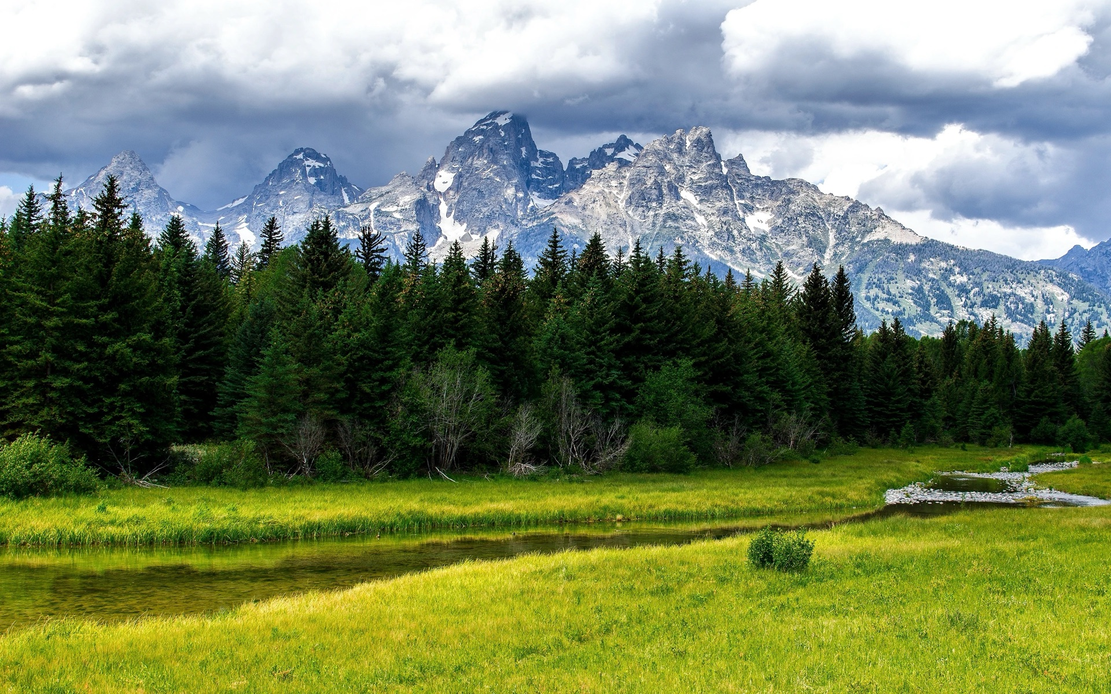
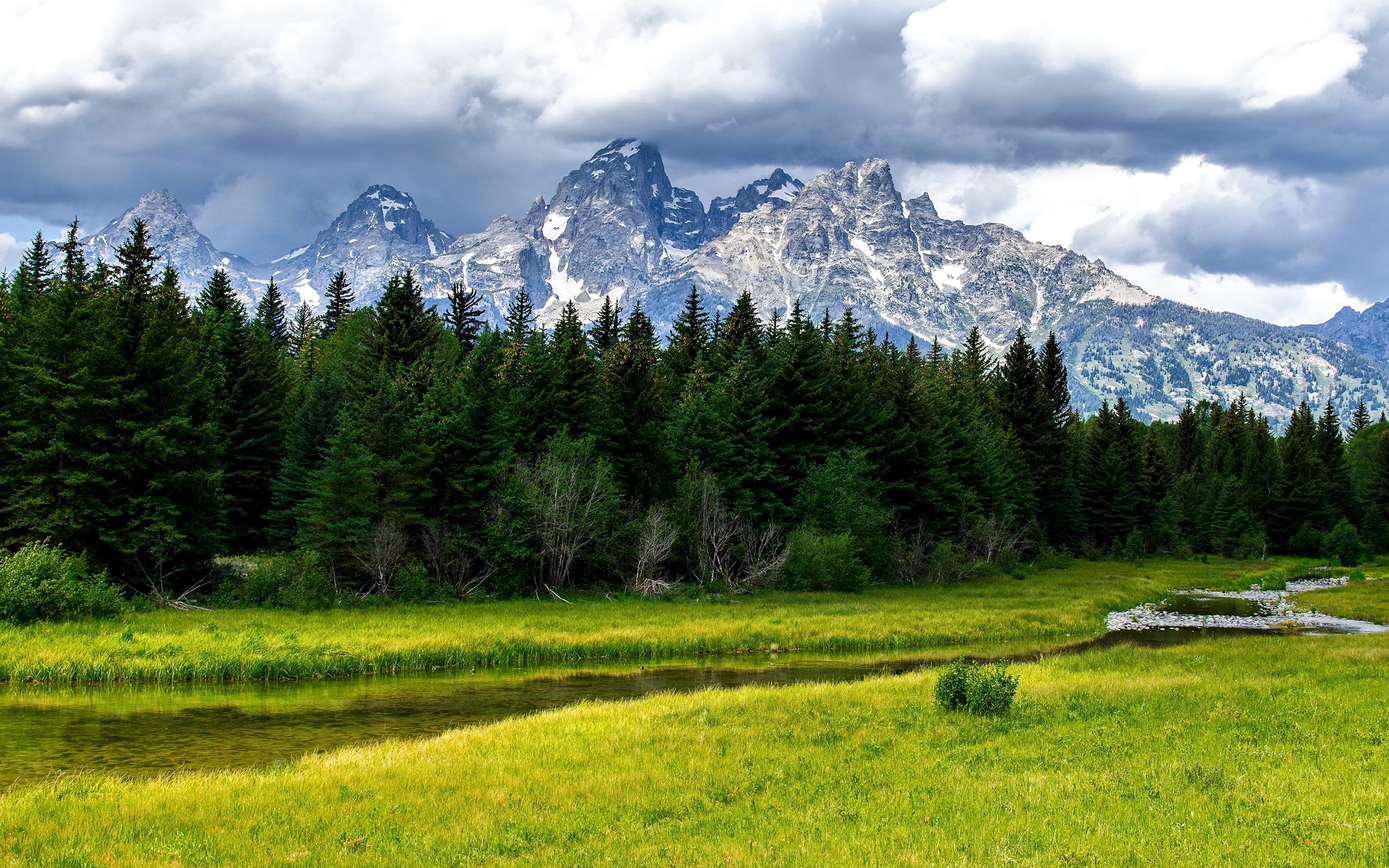
背景减淡遮罩提升清晰度，卡片改为实心

diff --git a/index.html b/index.html
@@ -9,7 +9,7 @@
 /* ===== tokens ===== */
 :root{
   --bg:#f4f2ec;
-  --card:rgba(253,252,249,0.86);
+  --card:rgba(253,252,249,0.96);
   --card-solid:#faf8f4;
   --border:rgba(45,42,36,0.1);
   --border-strong:rgba(45,42,36,0.22);
@@ -43,7 +43,7 @@ body{
 .bg-veil{
   position:fixed;inset:0;z-index:-1;
   background:
-    linear-gradient(to bottom, rgba(248,247,242,0.55) 0%, rgba(248,247,242,0.68) 45%, rgba(248,247,242,0.8) 100%);
+    linear-gradient(to bottom, rgba(248,247,242,0.05) 0%, rgba(248,247,242,0.12) 55%, rgba(248,247,242,0.3) 100%);
 }
 ::selection{background:var(--accent-soft);color:var(--text-strong);}
 a{color:var(--accent);text-decoration:none;transition:color .2s;}
@@ -119,6 +119,7 @@ img{max-width:100%;}
   font-size:1.5rem;font-weight:600;
   letter-spacing:0.5em;text-indent:0.5em;
   color:var(--text-strong);
+  text-shadow:0 1px 3px rgba(250,249,245,0.9),0 0 14px rgba(250,249,245,0.8);
   display:inline-block;
 }
 .section-label::after{
